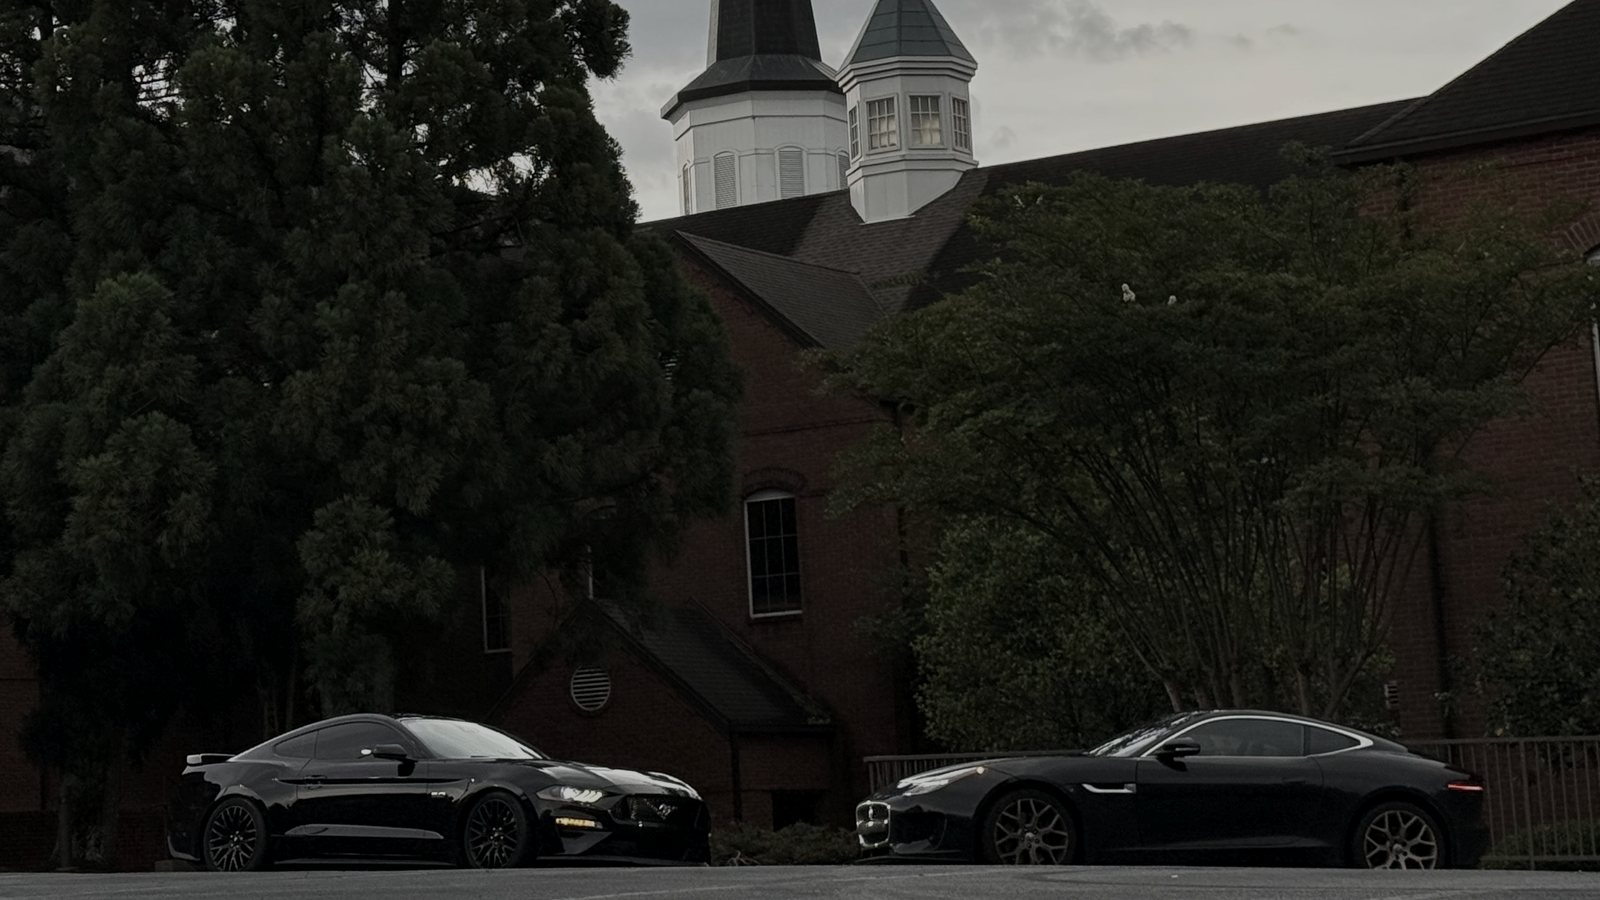
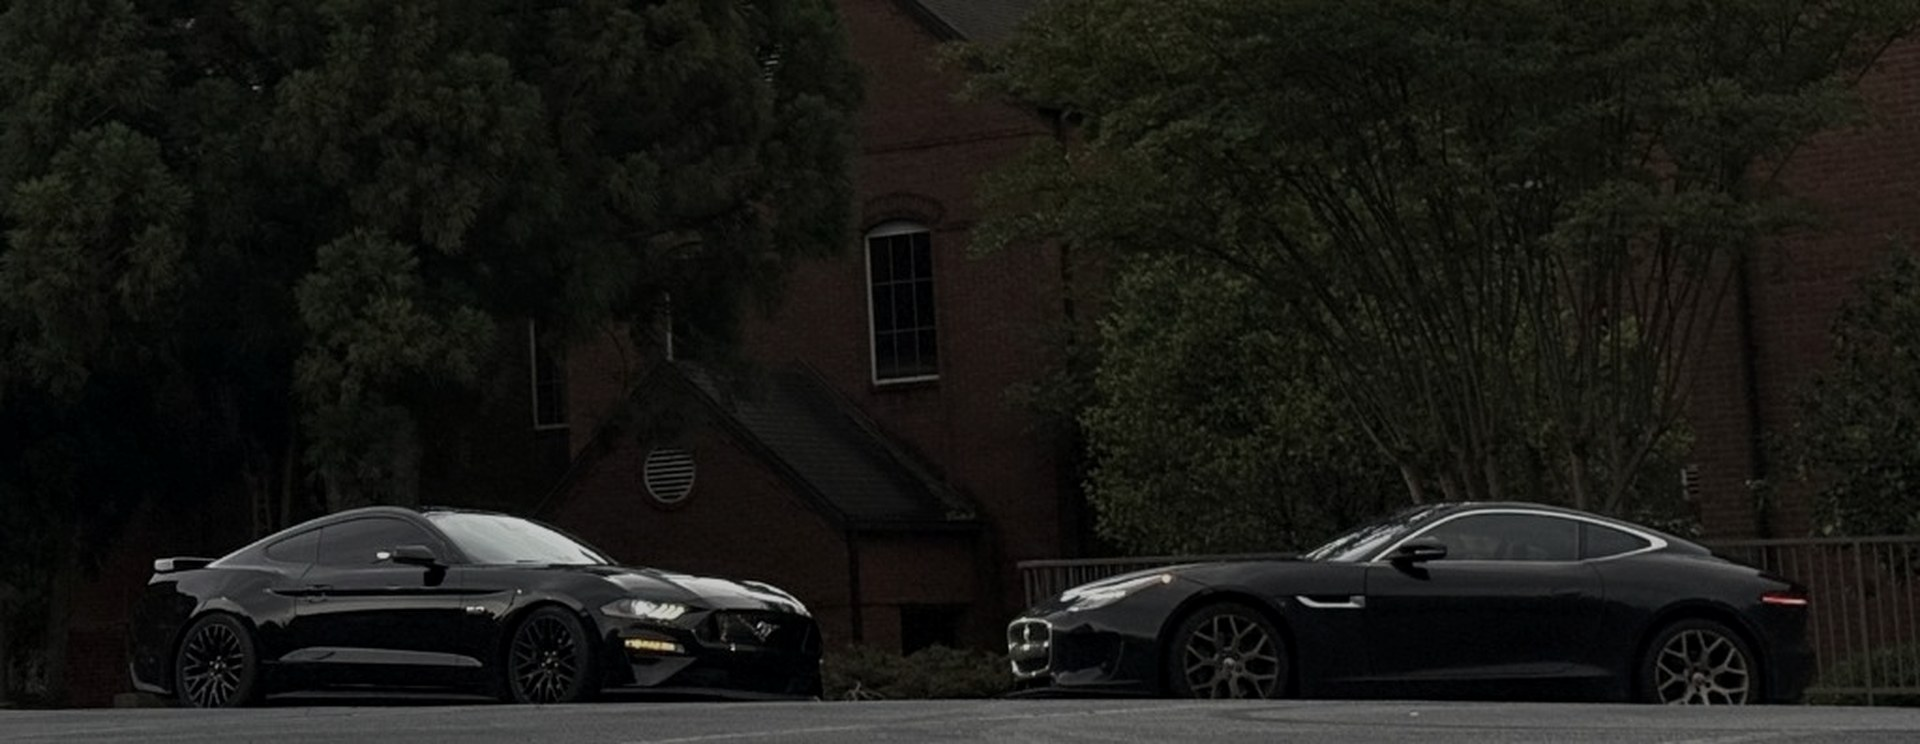
Fix hero image framing for both cars

diff --git a/frontend/src/app/globals.css b/frontend/src/app/globals.css
@@ -203,10 +203,9 @@ a {
   width: 100%;
   height: 100%;
   min-height: 250px;
-  object-fit: cover;
-  object-position: center bottom;
+  object-fit: contain;
+  object-position: center center;
   filter: saturate(0.82) contrast(1.02);
-  transform: scale(1.01);
 }
 
 .inspirationPlate figcaption {